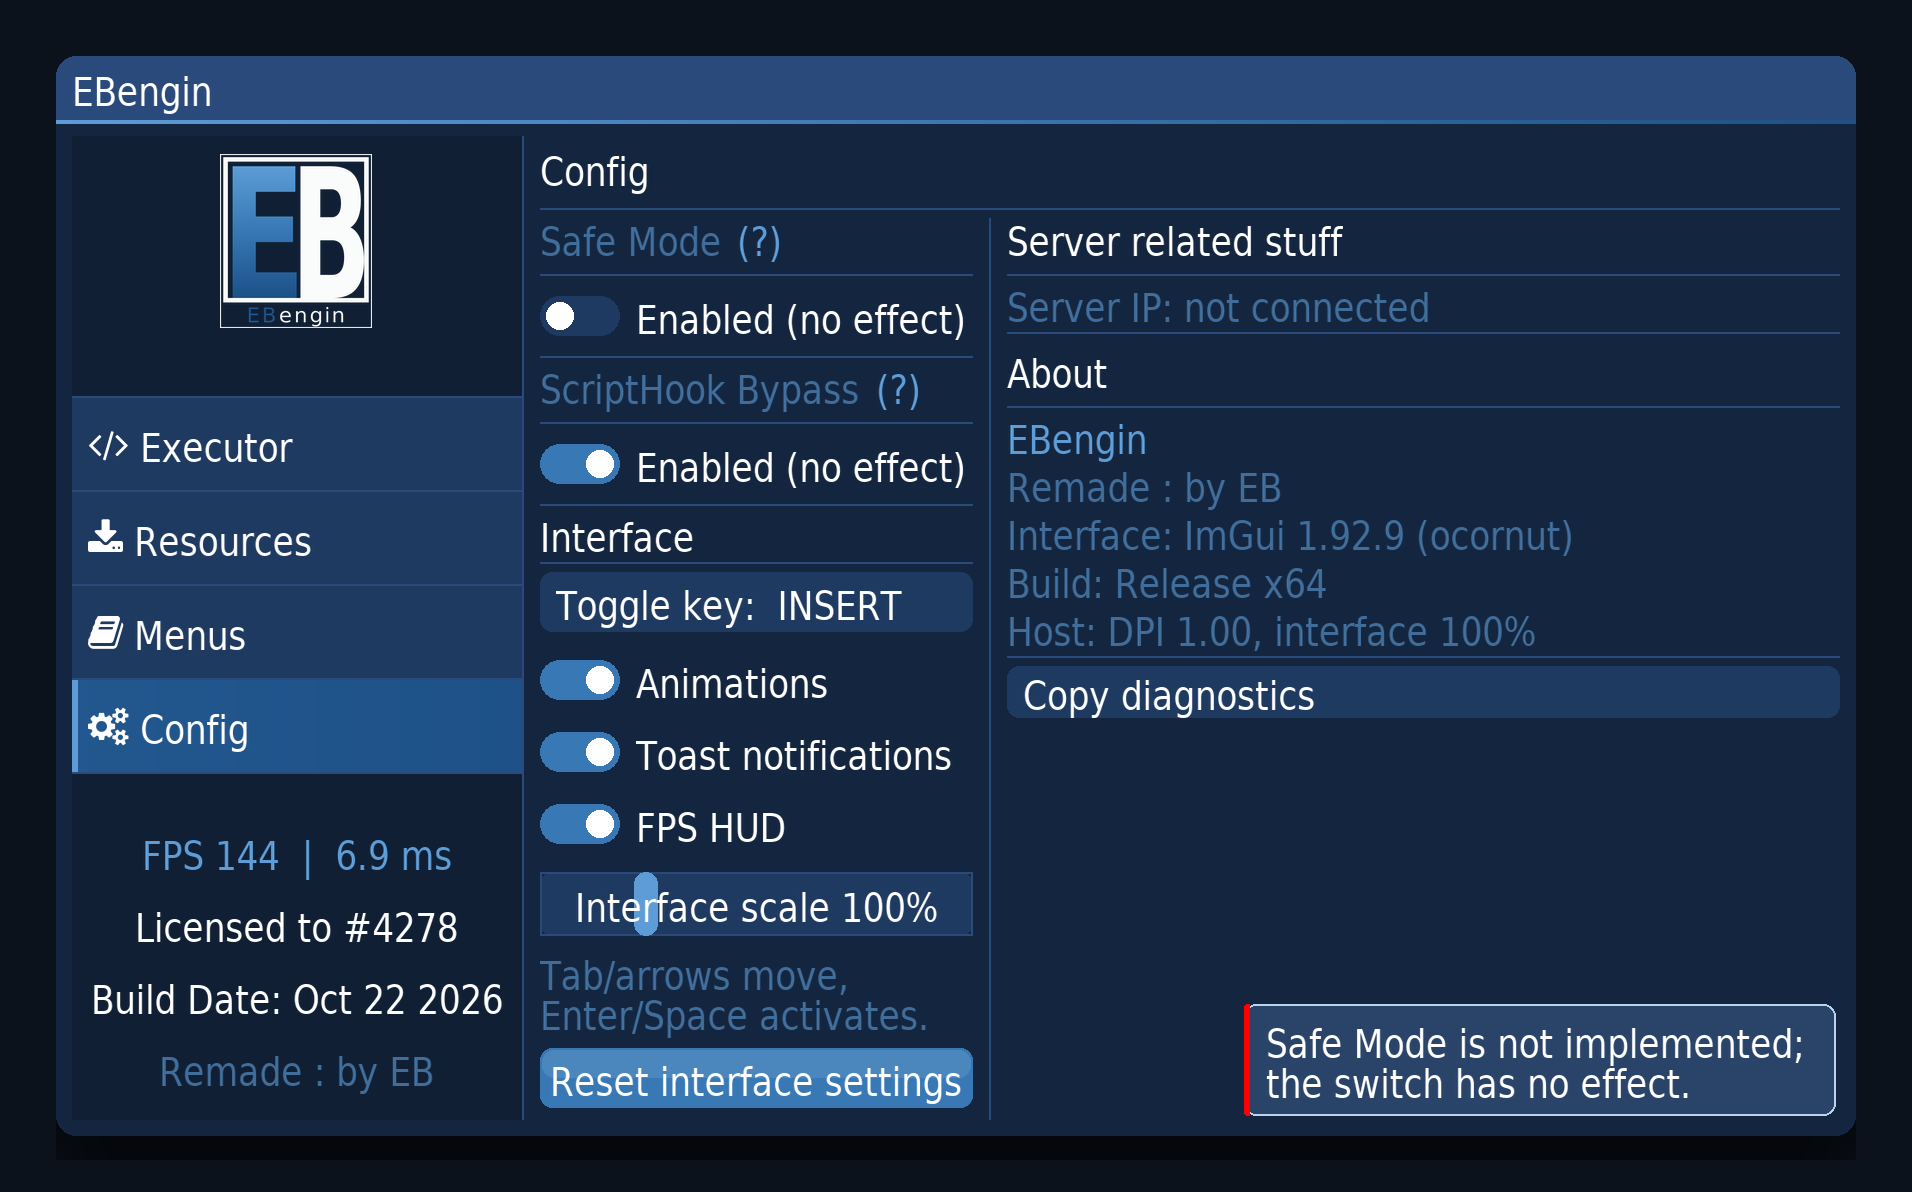
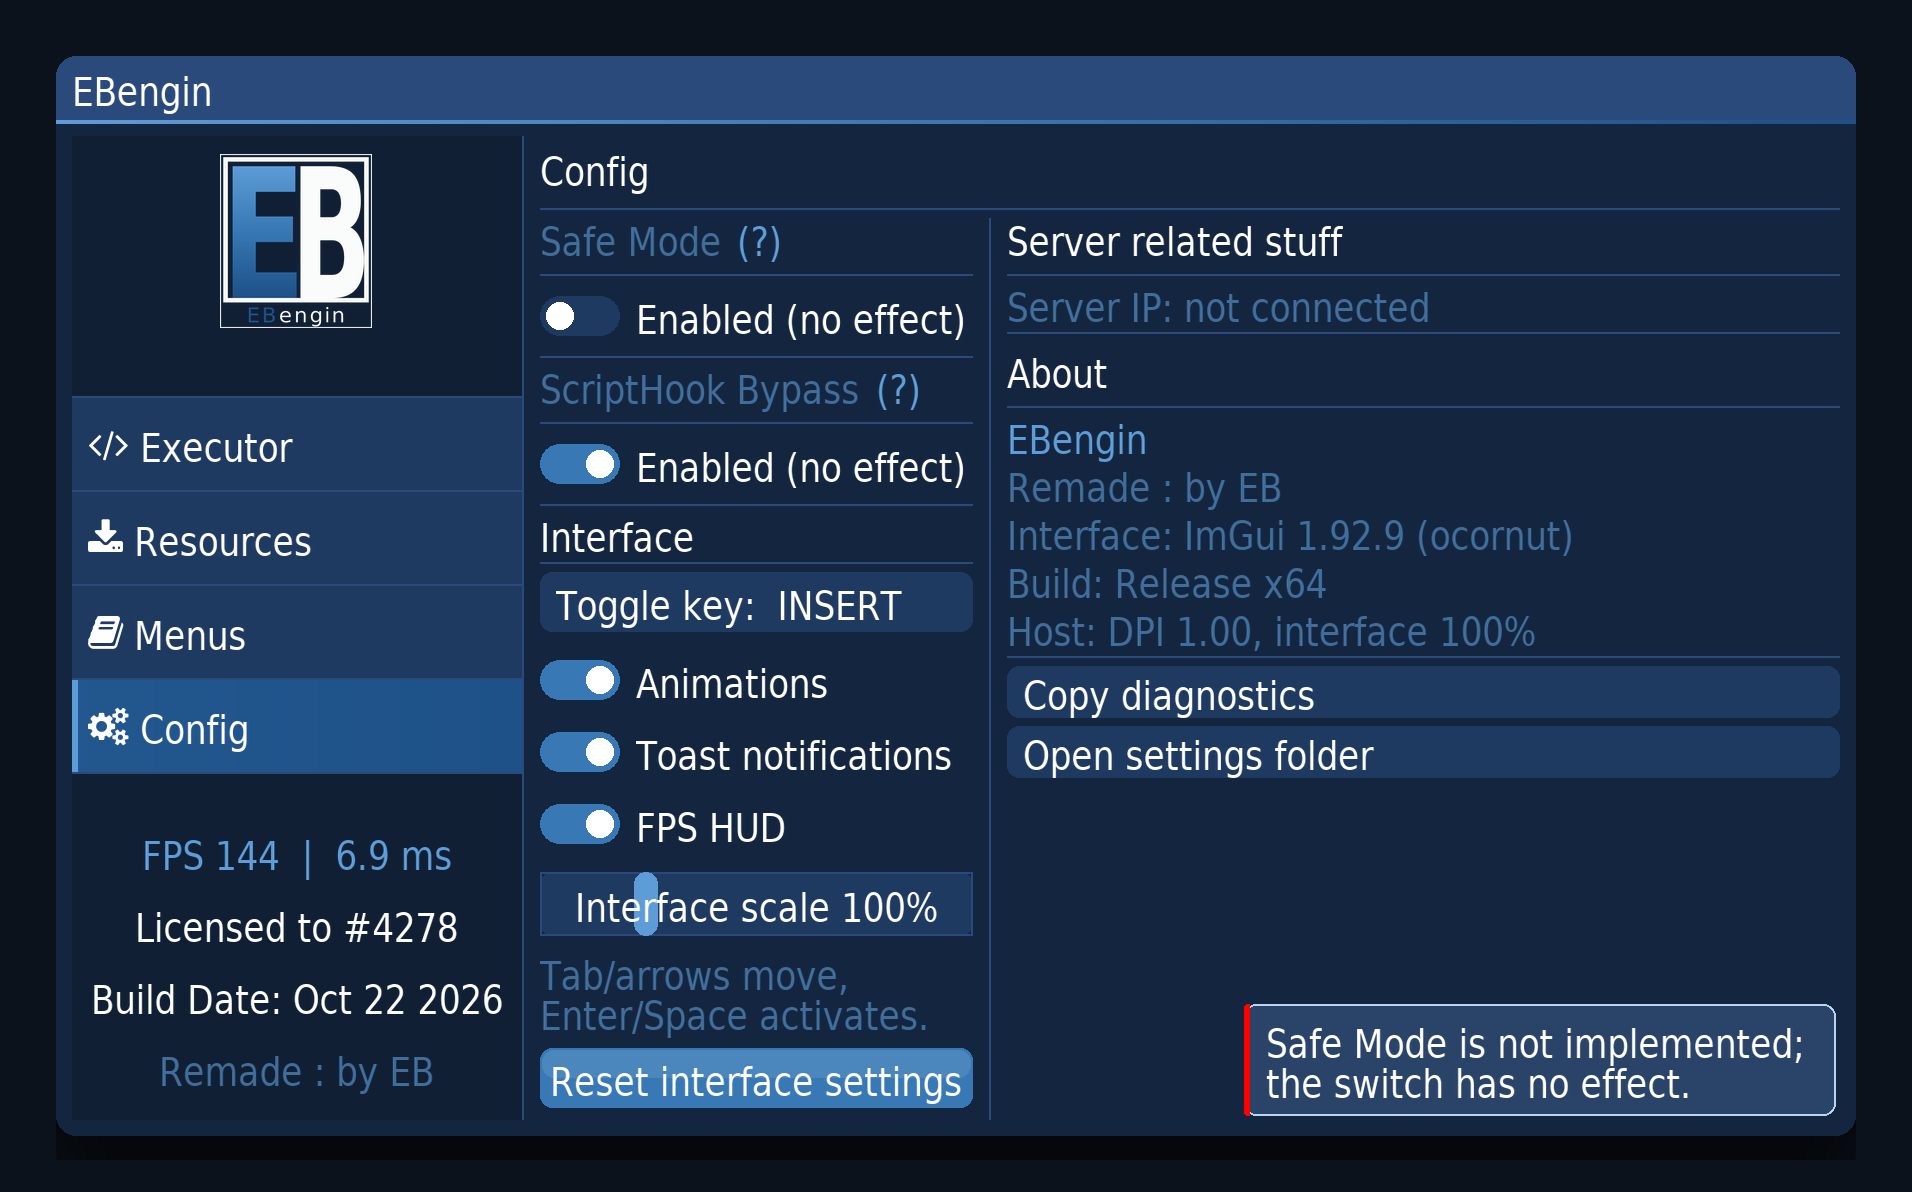
Status line names the last loaded/saved file; Open settings folder button in About; rows 110-111

Changed region(s): [[0.5246, 0.5898, 0.9874, 0.6518]]

diff --git a/docs/render_preview.py b/docs/render_preview.py
@@ -534,6 +534,8 @@ if TAB == "executor":
             R(cx + 1, ly + 6, cx + 2, ly + LINE_ADV - 6, P["cursor"])
 
     # status line (exec.cpp): cursor + document size, muted accent
+    # code appends "| file: <name>" once a load or save happened; the
+    # preview depicts a buffer with no file behind it
     T(CX0, ey1 + 2, "Ln 11, Col 42  |  11 lines  |  Lua", blend((93, 156, 214, 153), C_WINDOW_BG))
 
     # button row: Execute 116x30, Load from File 180x30, combo fills the rest
@@ -694,6 +696,7 @@ elif TAB == "config":
     ry += TEXT_LH + ITEM_SPACING_Y
     ry = sep(rx0, rx1, ry)
     ry = button(rx0, ry, rx1 - rx0, 26, "Copy diagnostics")
+    ry = button(rx0, ry, rx1 - rx0, 26, "Open settings folder")
 
     # --- the pane is only a third of the column and ImGui::Text does not
     # wrap, so these asserts are what keeps a label from being clipped ---
@@ -710,7 +713,8 @@ elif TAB == "config":
               "Build: Release x64", "Build: Release Win32 (x86)",
               "Build: Debug x64 (asserts on, slower)",
               "Build: Debug Win32 (asserts on, slower)",
-              "Host: DPI 1.00, interface 100%", "Copy diagnostics"):
+              "Host: DPI 1.00, interface 100%", "Copy diagnostics",
+              "Open settings folder"):
         assert TW(s) <= rx1 - rx0, "right pane clipped: " + s
     assert ly <= bot + 0.5, "left Config pane overflows: %.1f > %.1f" % (ly, bot)
     assert ry <= bot + 0.5, "right Config pane overflows: %.1f > %.1f" % (ry, bot)

diff --git a/exec.cpp b/exec.cpp
@@ -28,6 +28,16 @@ namespace Executor
 {
 	TextEditor editor;
 
+	// Last file the buffer came from or went to.  After a second load the
+	// origin of the text on screen was simply gone; the status line keeps it.
+	static std::string g_lastFile;
+
+	static std::string BaseName(const std::string& path)
+	{
+		const size_t i = path.find_last_of("\\/");
+		return i == std::string::npos ? path : path.substr(i + 1);
+	}
+
 	void Init()
 	{
 		editor.SetReadOnly(false);
@@ -138,6 +148,7 @@ namespace Executor
 					}
 					else
 					{
+						g_lastFile = file;
 						Activity::Push("Saved " + std::to_string(written)
 							+ " bytes to " + file + ".");
 						Toasts::Push(Toasts::Success, "Saved "
@@ -178,6 +189,8 @@ namespace Executor
 			cur.mLine + 1, cur.mColumn + 1, editor.GetTotalLines(),
 			editor.IsReadOnly() ? "  |  read-only" : "");
 		std::string statusLine = status;
+		if (!g_lastFile.empty())
+			statusLine += "  |  file: " + BaseName(g_lastFile);
 		if (editor.HasSelection())
 			statusLine += "  |  " + std::to_string(editor.GetSelectedText().size()) + " selected";
 		ImGui::TextColored(ImColor(93, 156, 214, 153), "%s", statusLine.c_str());
@@ -270,6 +283,7 @@ namespace Executor
 							text.erase(0, 3);
 						}
 						editor.SetText(text);
+						g_lastFile = file;
 						// Reported size is what the editor holds, i.e. after the BOM
 						// strip, not what the file occupied on disk.
 						Activity::Push("Loaded " + std::string(file) + " ("

diff --git a/config.cpp b/config.cpp
@@ -6,8 +6,12 @@
 #include "clipboard.h"
 
 #include <Windows.h>
+#include <shellapi.h>
 #include <string>
 #include <cstring>
+#include <cstdint>
+
+#pragma comment(lib, "shell32.lib")
 
 namespace Config
 {
@@ -275,6 +279,25 @@ namespace Config
 			{
 				Activity::Push("Clipboard unavailable - diagnostics not copied.");
 				Toasts::Push(Toasts::Warn, "Clipboard unavailable - nothing copied.");
+			}
+		}
+
+		// Copy diagnostics puts the environment on the clipboard; this one
+		// opens the folder that holds settings.ini (and the Dumps folder
+		// sits next to it), so attaching files to a report is two clicks.
+		if (ImGui::Button("Open settings folder",
+			ImVec2(ImGui::GetContentRegionAvail().x, Settings::Px(26.0f))))
+		{
+			const std::string sel = "/select," + Settings::IniPath();
+			const intptr_t r = (intptr_t)ShellExecuteA(
+				NULL, "explore", NULL, sel.c_str(), NULL, SW_SHOWNORMAL);
+			if (r > 32)
+				Activity::Push("Opened the settings folder in Explorer.");
+			else
+			{
+				Activity::Push("Explorer could not be started (code "
+					+ std::to_string(r) + ").");
+				Toasts::Push(Toasts::Warn, "Could not open the settings folder.");
 			}
 		}
 		ImGui::EndChild();

diff --git a/BUILD.md b/BUILD.md
@@ -240,6 +240,8 @@ Separate from the build fixes above: these are bugs that compiled fine but misbe
 | 107 | `Load from File` had no counterpart - a script buffer could only leave the editor through the clipboard, so anything written or pasted in the menu could not be kept as a file from the menu itself | A save icon at the end of the editor toolbar opens `GetSaveFileNameA` with the loader's filter, `lua` default extension and the dialog's own overwrite prompt; open/write/incomplete-write failures each report via message box, activity entry and warn toast, success reports the byte count; the renderer mirrors the sixth toolbar icon |
 | 108 | A failed settings.ini write answered once - a warn toast and an activity entry at the moment of failure - and then nothing: seconds later nothing on screen said that every further change would be lost on restart | While `Settings::SaveFailed()` is true, the Config About block shows a permanent red `Settings not writable - changes are lost on restart.` line in the project's error red; the renderer comments that the writable default draws nothing |
 | 109 | The session activity log - the only timestamped trace of failures, refusals and file operations - could be watched and cleared but not taken with you: a report meant retyping it line by line | A `Copy` button beside `Clear` on the landing tab joins the entries as displayed (newest first, CRLF) and puts them on the clipboard via a new header-only `clipboard.h` shared with Config's Copy diagnostics; success and clipboard-unavailable paths toast and log themselves |
+| 110 | After a load or save nothing on screen said which file the buffer came from or went to - a second load replaced the text and the origin was gone, and the status line named only cursor, line count and language | `exec.cpp` remembers the last successful load/save path in a file-static and the status line appends `\| file: <base name>`; the renderer comments that the no-file default draws nothing |
+| 111 | Diagnostics could be copied, but attaching `settings.ini` (or a dump) to a report still meant finding the DLL folder by hand | A second About button, `Open settings folder`, runs `ShellExecuteA("explore", "/select,<ini path>")` so Explorer opens with the file highlighted; a return code of 32 or less (Explorer refused) answers with an activity entry carrying the code plus a warn toast; `shell32.lib` is linked via pragma |
 
 
 

diff --git a/README.md b/README.md
@@ -31,7 +31,8 @@ Everything is vendored in-tree — no submodules, no package manager, no externa
 > `Enabled (no effect)` in the switch itself, an inert tooltip, and the warn toast that
 > answers every flip. The right pane's About block names brand, credit, build
 > configuration and host scale, flags a non-writable settings file in red, and its
-> `Copy diagnostics` button puts exactly that line on the clipboard. The landing
+> `Copy diagnostics` button puts exactly that line on the clipboard, and a second button
+> opens the settings folder in Explorer with the file highlighted. The landing
 > tab's session log - the timestamped trace of failures and refusals - is copyable
 > the same way. The asserts in the renderer are what keep this pane's labels
 > inside its ~216 px column.
@@ -386,7 +387,8 @@ Until then there is **no CI and no compile proof** — every check on this branc
   short fade, the sidebar's tab marker slides to the selected entry, and primary actions
   (Execute, Save All Resources, Run) draw in the brand blue instead of the default navy.
   Config → Interface can switch animations and toasts off; both are persisted in `settings.ini`.
-* **Tab comfort:** the editor carries a status line (Ln/Col, line count, language), the Resources
+* **Tab comfort:** the editor carries a status line (Ln/Col, line count, language, and the
+  last loaded or saved file), the Resources
   file browser and stopper have case-insensitive filter boxes, and the landing tab's Diagnostics
   card draws a 120-frame frame-time sparkline with session uptime and action count (`perf.cpp`).
 * **Editor toolbar:** icon buttons for undo/redo/copy/paste/clear and a save-to-file dialog

diff --git a/CHANGELOG.md b/CHANGELOG.md
@@ -9,6 +9,16 @@ say so in the UI - see README and PR #1.
 "row N" refers to the fix table in `BUILD.md` §5.  The PR body carries a summary
 and the verification anchor only; per-batch write-ups live here and in the commits.
 
+## Paths you can see and reach (rows 110-111)
+- The editor status line appends `| file: <base name>` once a load or save succeeded
+  (`exec.cpp` file-static, base name only), so the origin of the buffer on screen survives the
+  next edit and the renderer documents the no-file default.
+- Config's About block gains `Open settings folder` under `Copy diagnostics`:
+  `ShellExecuteA(NULL, "explore", NULL, "/select,<ini path>", ...)` opens Explorer with
+  settings.ini highlighted - the Dumps folder sits next to it, so attaching files to a report
+  is two clicks.  A return code of 32 or less answers with an activity entry (code included)
+  and a warn toast instead of silence; `shell32.lib` via pragma comment.
+
 ## Failure visibility and a copyable session log (rows 108-109)
 - A failed settings.ini write used to answer once (warn toast + activity entry) and then go
   silent, although the consequence - every later change lost on restart - persists for the
